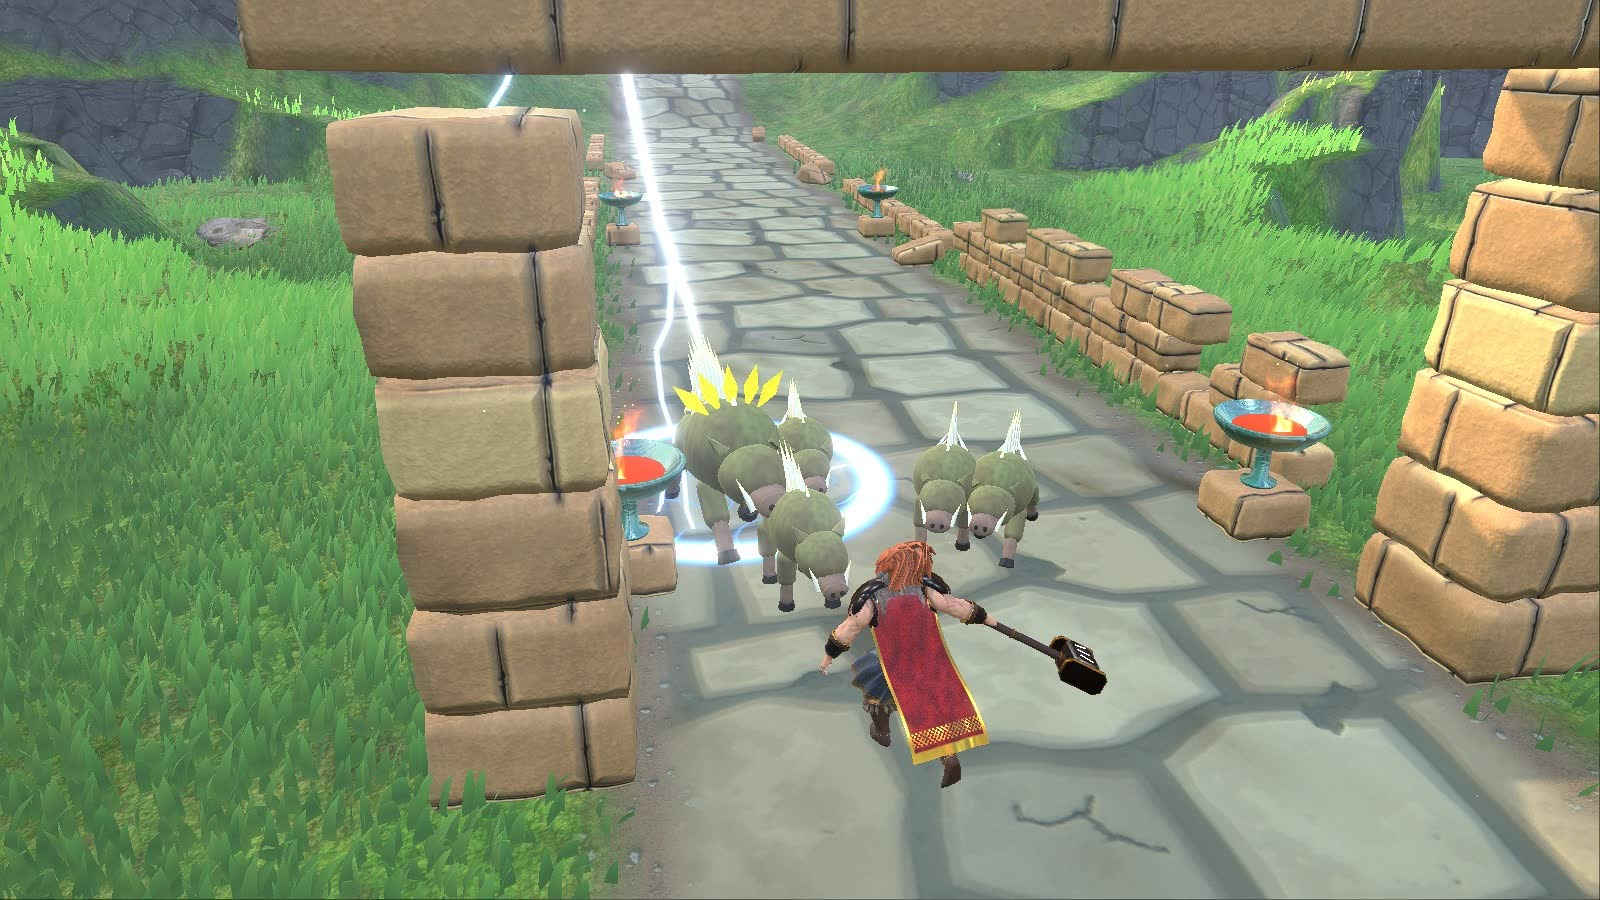
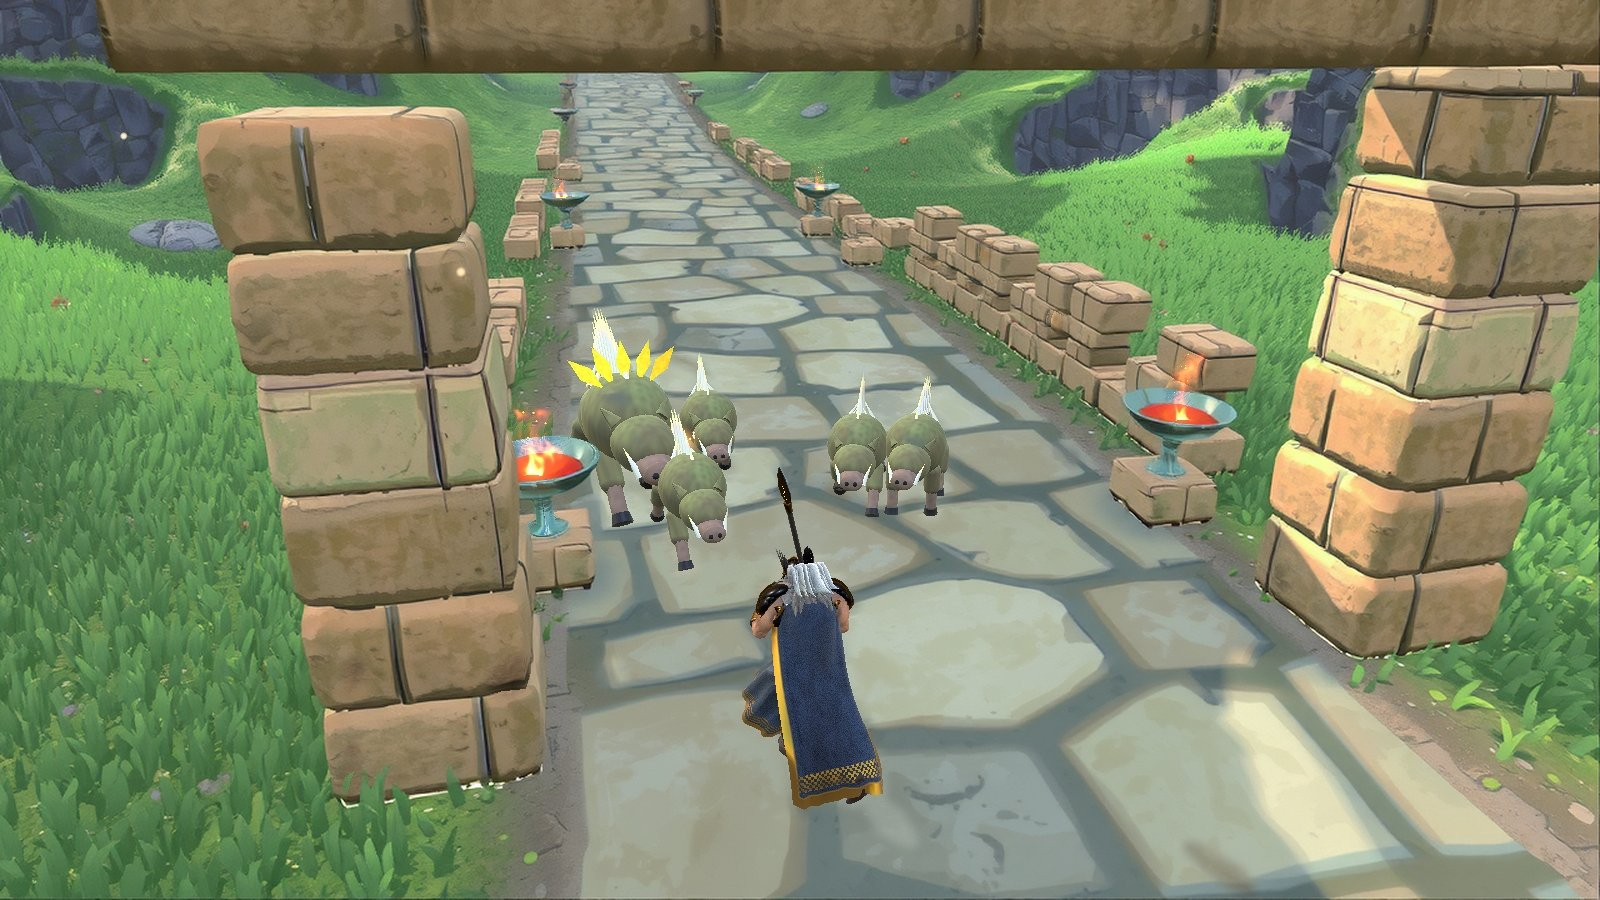
Key art: AI-painted scenery behind the in-engine gods (#317)
The home page backdrops (and their blurred copies behind the god pick
screen) now have their scenery repainted by FLUX.1-schnell, while every
god, unit and effect stays exactly as the game drew it. film.mjs --plate
films each still's instant again with the gods hidden and shown; keyart.py
paints the bare scenery and lays the gods back on through the difference
of the two. Painting the whole frame, tried first, changed the gods
themselves.

Rush gets a staged still (kaRush) like Clash: its live fights are now
buried in skill effects.

Claude-Session: https://claude.ai/code/session_01CS3nLhWfBHzcz1Qsr2buBY

diff --git a/tools/textures/keyart.py b/tools/textures/keyart.py
@@ -1,0 +1,125 @@
+"""Paints the scenery of the home page key art with FLUX.1-schnell; the gods stay as the game draws them.
+
+The key art is filmed in the game (tools/trailer/README.md, "Home page art")
+with `film.mjs --plate`, which films each still's last instant twice more,
+settled: with every god, unit and effect hidden (NNNN-plate.jpg, the bare
+scenery) and with them shown (NNNN-full.jpg). This paints the bare scenery at
+low strength, then lays the filmed gods back over it through a mask taken
+from the difference of the two, so the composition and the gods stay exactly
+the game's and only the world turns painterly. (Painting the whole frame
+changed the gods themselves: Zeus came out as a woman.)
+
+    node tools/trailer/film.mjs kaDuel --frames 1 --width 1600 --plate   # etc., see PICKS
+    python tools/textures/keyart.py [mode,mode,...] [--strength 0.45]
+
+Writes public/keyart/<mode>.jpg (1600x900), <mode>-blur.jpg (480x270, behind
+the god pick screen) and <mode>-thumb.jpg (256x144).
+"""
+
+import argparse
+import os
+import sys
+
+import numpy as np
+from PIL import Image, ImageDraw, ImageFilter, ImageOps
+
+HERE = os.path.dirname(os.path.abspath(__file__))
+ROOT = os.path.join(HERE, '..', '..')
+KEYART = os.path.join(ROOT, 'public', 'keyart')
+FRAMES = os.path.join(ROOT, 'tools', 'trailer', 'out', 'frames')
+sys.path.insert(0, HERE)
+
+# mode: (shot in tools/trailer/shots.mjs, frame, mirrored so the subject sits right of centre,
+# boxes (x0, y0, x1, y1 in the 1600x900 frame) also kept as filmed: the base's god statue is
+# part of the map, so hiding the units leaves it in the bare scenery)
+PICKS = {
+    'conquest': ('cqVista', 5, False, [(860, 440, 1050, 710)]),
+    'clash': ('kaClash', 2, False),
+    'rush': ('kaRush', 2, False),
+    'descent': ('mdDescent', 1, True),
+    'jotunn': ('kaJotunn', 9, False),
+    'siege': ('kaSiege', 0, False),
+    'duel': ('kaDuel', 0, False),
+    'arena': ('kaArena', 9, True),
+}
+
+STYLE = ('Epic fantasy game key art, a painterly digital illustration with confident brush strokes, '
+         'rich saturated colours, soft atmospheric depth, crisp shapes, highly detailed hand-painted surfaces.')
+
+# The bare scenery of each still (the gods are laid back on afterwards, so the
+# prompts leave them out).
+SCENES = {
+    'conquest': 'Aerial view over a lush jungle temple valley in warm sunlight: round grey cobblestone plazas, winding stone '
+                'paths, palm trees and leafy jungle trees, mossy grey cliffs and terraces, distant white temple towers.',
+    'clash': 'A sunlit ancient temple plaza of large worn sandstone flagstones, white marble columns, a sandstone gateway, '
+             'a glowing blue crystal above a golden shrine on a round marble dais, grassy hills and grey cliffs behind.',
+    'rush': 'A round sunlit stadium plaza paved with warm sandstone cobbles, ringed by white marble columns, a round white '
+            'marble dais in the middle, low sandstone walls and banners, green hills beyond.',
+    'descent': 'A dark underworld hall: black basalt flagstones and walls cracked with glowing orange lava veins, a heavy '
+               'stone pillar, burning iron braziers, an iron portcullis, a shaft of warm light falling from above.',
+    'jotunn': 'A sunlit marble temple plaza high in the mountains: warm sandstone flagstones, a curved white marble '
+              'colonnade, a golden shrine on a round marble dais, towering grey cliffs, a bright blue sky with white clouds.',
+    'siege': 'A long stone causeway paved with grey flagstones between crumbling sandstone block pillars and low broken '
+             'walls, lush green grass on both sides, stone braziers, misty cliffs ahead, warm sunlight.',
+    'duel': 'A sunlit ancient temple plaza of large worn sandstone flagstones, white marble columns and broken pillars, '
+            'stone braziers on pedestals, a glowing blue crystal above a golden shrine on a round marble dais, '
+            'a sandstone gateway, green grass and misty grey cliffs behind.',
+    'arena': 'A sunlit ancient temple plaza of large worn sandstone flagstones, white marble columns and broken pillars, '
+             'a sandstone gateway, a glowing blue crystal above a golden shrine on a round marble dais, '
+             'green grass and misty grey cliffs behind.',
+}
+
+
+def gods_mask(full, plate, keep=()):
+    """Where the gods, units and effects (and their shadows and light) are: the
+    two renders differ there and match elsewhere, up to temporal AA's noise,
+    which the blur and the opening remove. Soft-edged, 0..1."""
+    a, b = (np.asarray(im.filter(ImageFilter.GaussianBlur(2)), np.float32) for im in (full, plate))
+    hard = Image.fromarray(((np.abs(a - b).max(-1) > 25) * 255).astype(np.uint8))
+    m = hard.filter(ImageFilter.MinFilter(5)).filter(ImageFilter.MaxFilter(13))
+    if keep:
+        draw = ImageDraw.Draw(m)
+        k = full.width / 1600
+        for box in keep:
+            draw.ellipse([v * k for v in box], fill=255)
+    m = m.filter(ImageFilter.GaussianBlur(4))
+    return np.asarray(m, np.float32)[..., None] / 255
+
+
+def main():
+    ap = argparse.ArgumentParser()
+    ap.add_argument('modes', nargs='?', default=','.join(PICKS))
+    ap.add_argument('--model', default=os.path.join(ROOT, 'models', 'flux'))
+    ap.add_argument('--strength', type=float, default=0.45)
+    ap.add_argument('--steps', type=int, default=8)
+    ap.add_argument('--width', type=int, default=1280, help='painting width (16:9)')
+    ap.add_argument('--suffix', default='', help='write <mode><suffix>.jpg instead of replacing the key art')
+    args = ap.parse_args()
+    from flux import Flux
+    jobs = []
+    for mode in args.modes.split(','):
+        shot, frame, mirror, *keep = PICKS[mode]
+        stem = os.path.join(FRAMES, shot, f'{frame:04d}')
+        full, plate = (Image.open(f'{stem}-{k}.jpg').convert('RGB') for k in ('full', 'plate'))
+        w = args.width // 16 * 16
+        h = round(w * 9 / 16) // 16 * 16
+        jobs.append(dict(mode=mode, mirror=mirror, keep=keep[0] if keep else (), full=full, plate=plate, prompt=f'{SCENES[mode]} {STYLE}', width=w, height=h,
+                         steps=args.steps, seed=0, init=plate, strength=args.strength))
+    painted = Flux(args.model).batch(jobs, log=lambda s: print(s, flush=True))
+    for job, img in zip(jobs, painted):
+        full = job['full']
+        m = gods_mask(full, job['plate'], job['keep'])
+        scenery = np.asarray(img.resize(full.size, Image.LANCZOS), np.float32)
+        out = Image.fromarray((scenery * (1 - m) + np.asarray(full, np.float32) * m + 0.5).clip(0, 255).astype(np.uint8))
+        out = out.resize((1600, 900), Image.LANCZOS)
+        if job['mirror']:
+            out = ImageOps.mirror(out)
+        base = os.path.join(KEYART, job['mode'] + args.suffix)
+        out.save(f'{base}.jpg', quality=85)
+        out.resize((480, 270), Image.LANCZOS).filter(ImageFilter.GaussianBlur(6)).save(f'{base}-blur.jpg', quality=80)
+        out.resize((256, 144), Image.LANCZOS).save(f'{base}-thumb.jpg', quality=85)
+        print('painted', job['mode'])
+
+
+if __name__ == '__main__':
+    main()

diff --git a/docs/assets.md b/docs/assets.md
@@ -142,13 +142,14 @@ Every sound effect and ambience loop is synthesized in code at load time (`src/a
 - **Herald:** the spoken cues are original lines spoken by the browser's built-in speech synthesis (the player's own system voices; nothing is shipped). Each line opens with a synthesized sting.
 - Rendering the synthesized sounds takes a few seconds of CPU and runs on worker threads, so it never stalls the game. Unit tests (`src/audio/audio.test.ts`, `orchestra.test.ts`, `layers.test.ts`) check every sound for clipping, silence and DC offset, and that every note the score writes has a recording within two and a half semitones.
 
-## AI-painted textures (shipped in `public/textures/pbr`)
+## AI-painted textures and key art (shipped in `public/textures/pbr` and `public/keyart`)
 
 The seven tiling surface sets (flagstone, marble, sandstone blocks, rock, grass ground, dirt, bark) are hand-painted-style images made with **FLUX.1-schnell** (Black Forest Labs, Apache-2.0), run on the CPU through OpenVINO from the `OpenVINO/FLUX.1-schnell-int4-ov` export on Hugging Face (also Apache-2.0). Every prompt describes generic materials in an original painterly style; none names a game, studio or artist.
 
 - `tools/textures/paint.py` paints each material as a seamless tile (`flux.py` blends two rolled views per denoising step and `ovtile.py` makes the VAE wrap around), then bakes it into the same two maps per material the shaders read. Flagstone and the sandstone wall are painted over `gen.py`'s procedural layout so slab and course sizes stay where the levels were tuned.
 - The bake matches each painting to the old map's mean colour (and its contrast, relief and roughness a little bolder), because the terrain, metal and frost shaders were tuned on those statistics.
 - `gen.py` still builds the procedural layouts and the foliage atlas.
+- The home page's mode backdrops (`public/keyart`) are filmed in the game, then only their scenery is repainted by the same model (`tools/textures/keyart.py`, low strength); the gods, units and effects are laid back on exactly as the game rendered them.
 - Apache-2.0 has no attribution requirement for generated images; the model is credited here anyway.
 
 ## License obligations, in one place
@@ -159,6 +160,6 @@ The seven tiling surface sets (flagstone, marble, sandstone blocks, rock, grass 
 - **CMU mocap:** free for any use, including commercial; the raw data may not be resold. Credit: "The data used in this project was obtained from mocap.cs.cmu.edu. The database was created with funding from NSF EIA-0196217."
 - **Poly Haven API:** "Powered by Poly Haven" credit when the Poly Haven tier is used.
 - **Music samples:** VSCO 2 CE and VCSL are CC0. Sonatina Symphonic Orchestra is CC Sampling Plus 1.0: samples may be transformed and used in any work (not advertising), with credit to Mattias Westlund and the license; `public/music/CREDITS.md` has the lines. Sound effects are synthesized in code, and their recorded layers are all CC0 (`public/sfx/CREDITS.md`); no obligations.
-- **AI-painted textures:** FLUX.1-schnell, Apache-2.0; no obligations (credited above).
+- **AI-painted textures and key art scenery:** FLUX.1-schnell, Apache-2.0; no obligations (credited above).
 - **God voices:** Kokoro is Apache-2.0 and Chatterbox is MIT; both let the generated speech ship in any work with no credit owed (credited anyway). Chatterbox marks its audio with an inaudible Perth watermark that identifies it as generated. Whisper (MIT) only checks the takes and is not shipped.
 - Nothing here uses Smite or Hi-Rez art, audio, names or trademarks.

diff --git a/tools/trailer/README.md b/tools/trailer/README.md
@@ -41,25 +41,28 @@ To change a line, edit `script.json`, rerun steps 1 and 3, and nudge
 ## Home page art
 
 The home page's mode backdrops (`public/keyart/<mode>.jpg`, plus a blurred
-`<mode>-blur.jpg` for the god pick screen and a `<mode>-thumb.jpg` for the mode list) are frames filmed the same
-way: `cqVista`, `mdRush` and `mdDescent` from the trailer's list, and the
-`ka*` stills (`kaClash`, `kaDuel`, `kaArena`, `kaSiege`, `kaJotunn`), which
-stage a held moment in each mode and frame it for a backdrop.
+`<mode>-blur.jpg` for the god pick screen and a `<mode>-thumb.jpg` for the mode
+list) are filmed the same way, then their scenery is painted over with FLUX
+while the gods stay exactly as the game draws them. The shots are `cqVista` and
+`mdDescent` from the trailer's list and the `ka*` stills (`kaClash`, `kaRush`,
+`kaDuel`, `kaArena`, `kaSiege`, `kaJotunn`), which stage a held moment in each
+mode and frame it for a backdrop. `--plate` films the last frame's instant
+twice more, settled, with every god, unit and effect hidden (`NNNN-plate.jpg`)
+and shown (`NNNN-full.jpg`); `tools/textures/keyart.py` paints the bare
+scenery and lays the gods back on through the difference of the two.
 
 ```sh
 npm run build && npx vite preview --port 4173 &
-node tools/trailer/film.mjs kaClash,kaDuel,kaArena,kaSiege,kaJotunn --frames 10 --width 1600
-# pick a frame, then for each mode:
-ffmpeg -i out/frames/kaDuel/0000.jpg -vf scale=1600:-1 -q:v 5 public/keyart/duel.jpg
-ffmpeg -i public/keyart/duel.jpg -vf "scale=480:-1,gblur=sigma=6" -q:v 6 public/keyart/duel-blur.jpg
-ffmpeg -i public/keyart/duel.jpg -vf scale=256:-1 -q:v 4 public/keyart/duel-thumb.jpg
+# --frames is the shipped frame + 1 (keyart.py's PICKS)
+for s in kaClash:3 kaRush:3 kaDuel:1 kaSiege:1 kaJotunn:10 kaArena:10 cqVista:6 mdDescent:2; do
+  node tools/trailer/film.mjs ${s%:*} --frames ${s#*:} --width 1600 --plate
+done
+python tools/textures/keyart.py          # FLUX setup: tools/textures/paint.py
 ```
 
-The shipped frames: clash `kaClash/0002`, jotunn `kaJotunn/0009`, siege
-`kaSiege/0000`, duel `kaDuel/0000`, arena `kaArena/0009` mirrored, conquest
-`cqVista/0005`, rush `mdRush/0002` and descent `mdDescent/0001` mirrored (from
-a `cqVista,mdRush,mdDescent --frames 8` run; the bots' gods are shuffled, so a
-rerun can need a different frame). Refilm them after changing a map's textures.
+The bots' gods are shuffled on every run and `mdDescent` films whatever fight
+it finds, so look at each `NNNN-full.jpg` before painting and refilm a shot
+that came out badly. Refilm after changing a map's textures.
 
 The god pick screen's full-length god art (`public/splash/<god>.jpg`) is baked
 by `node tools/portraits/bake.mjs http://localhost:4173 zeus,thor,... --splash`.
